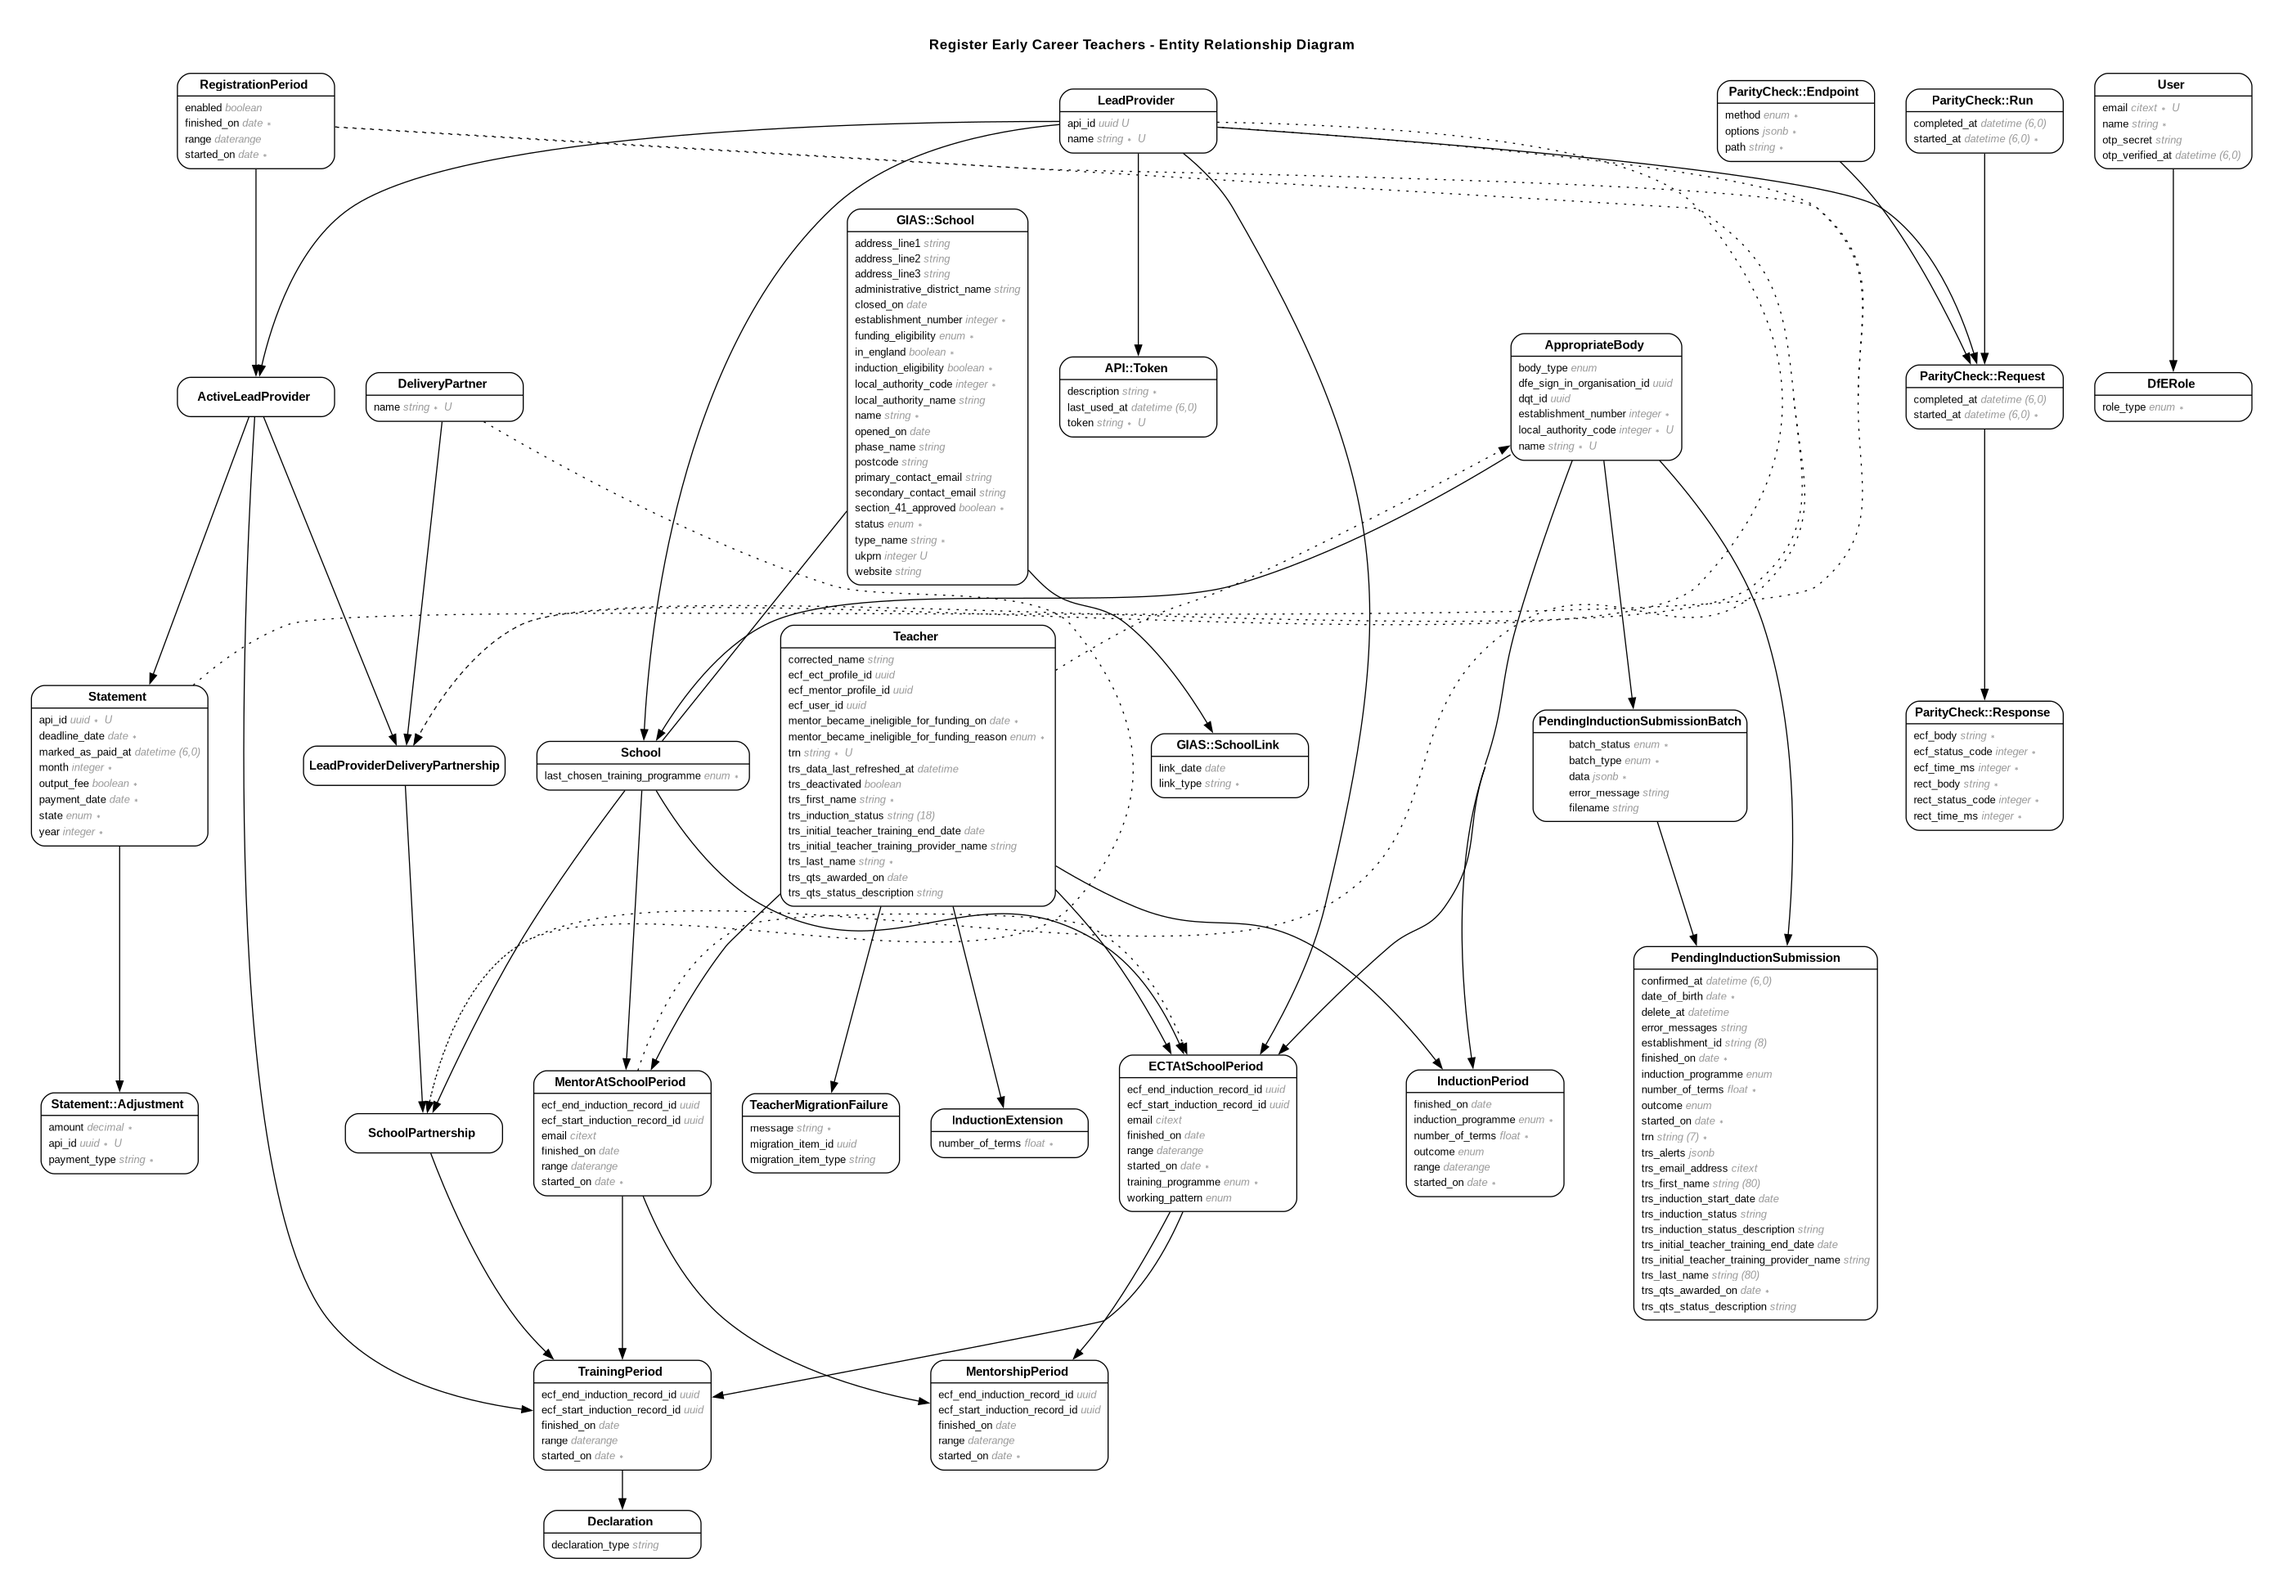
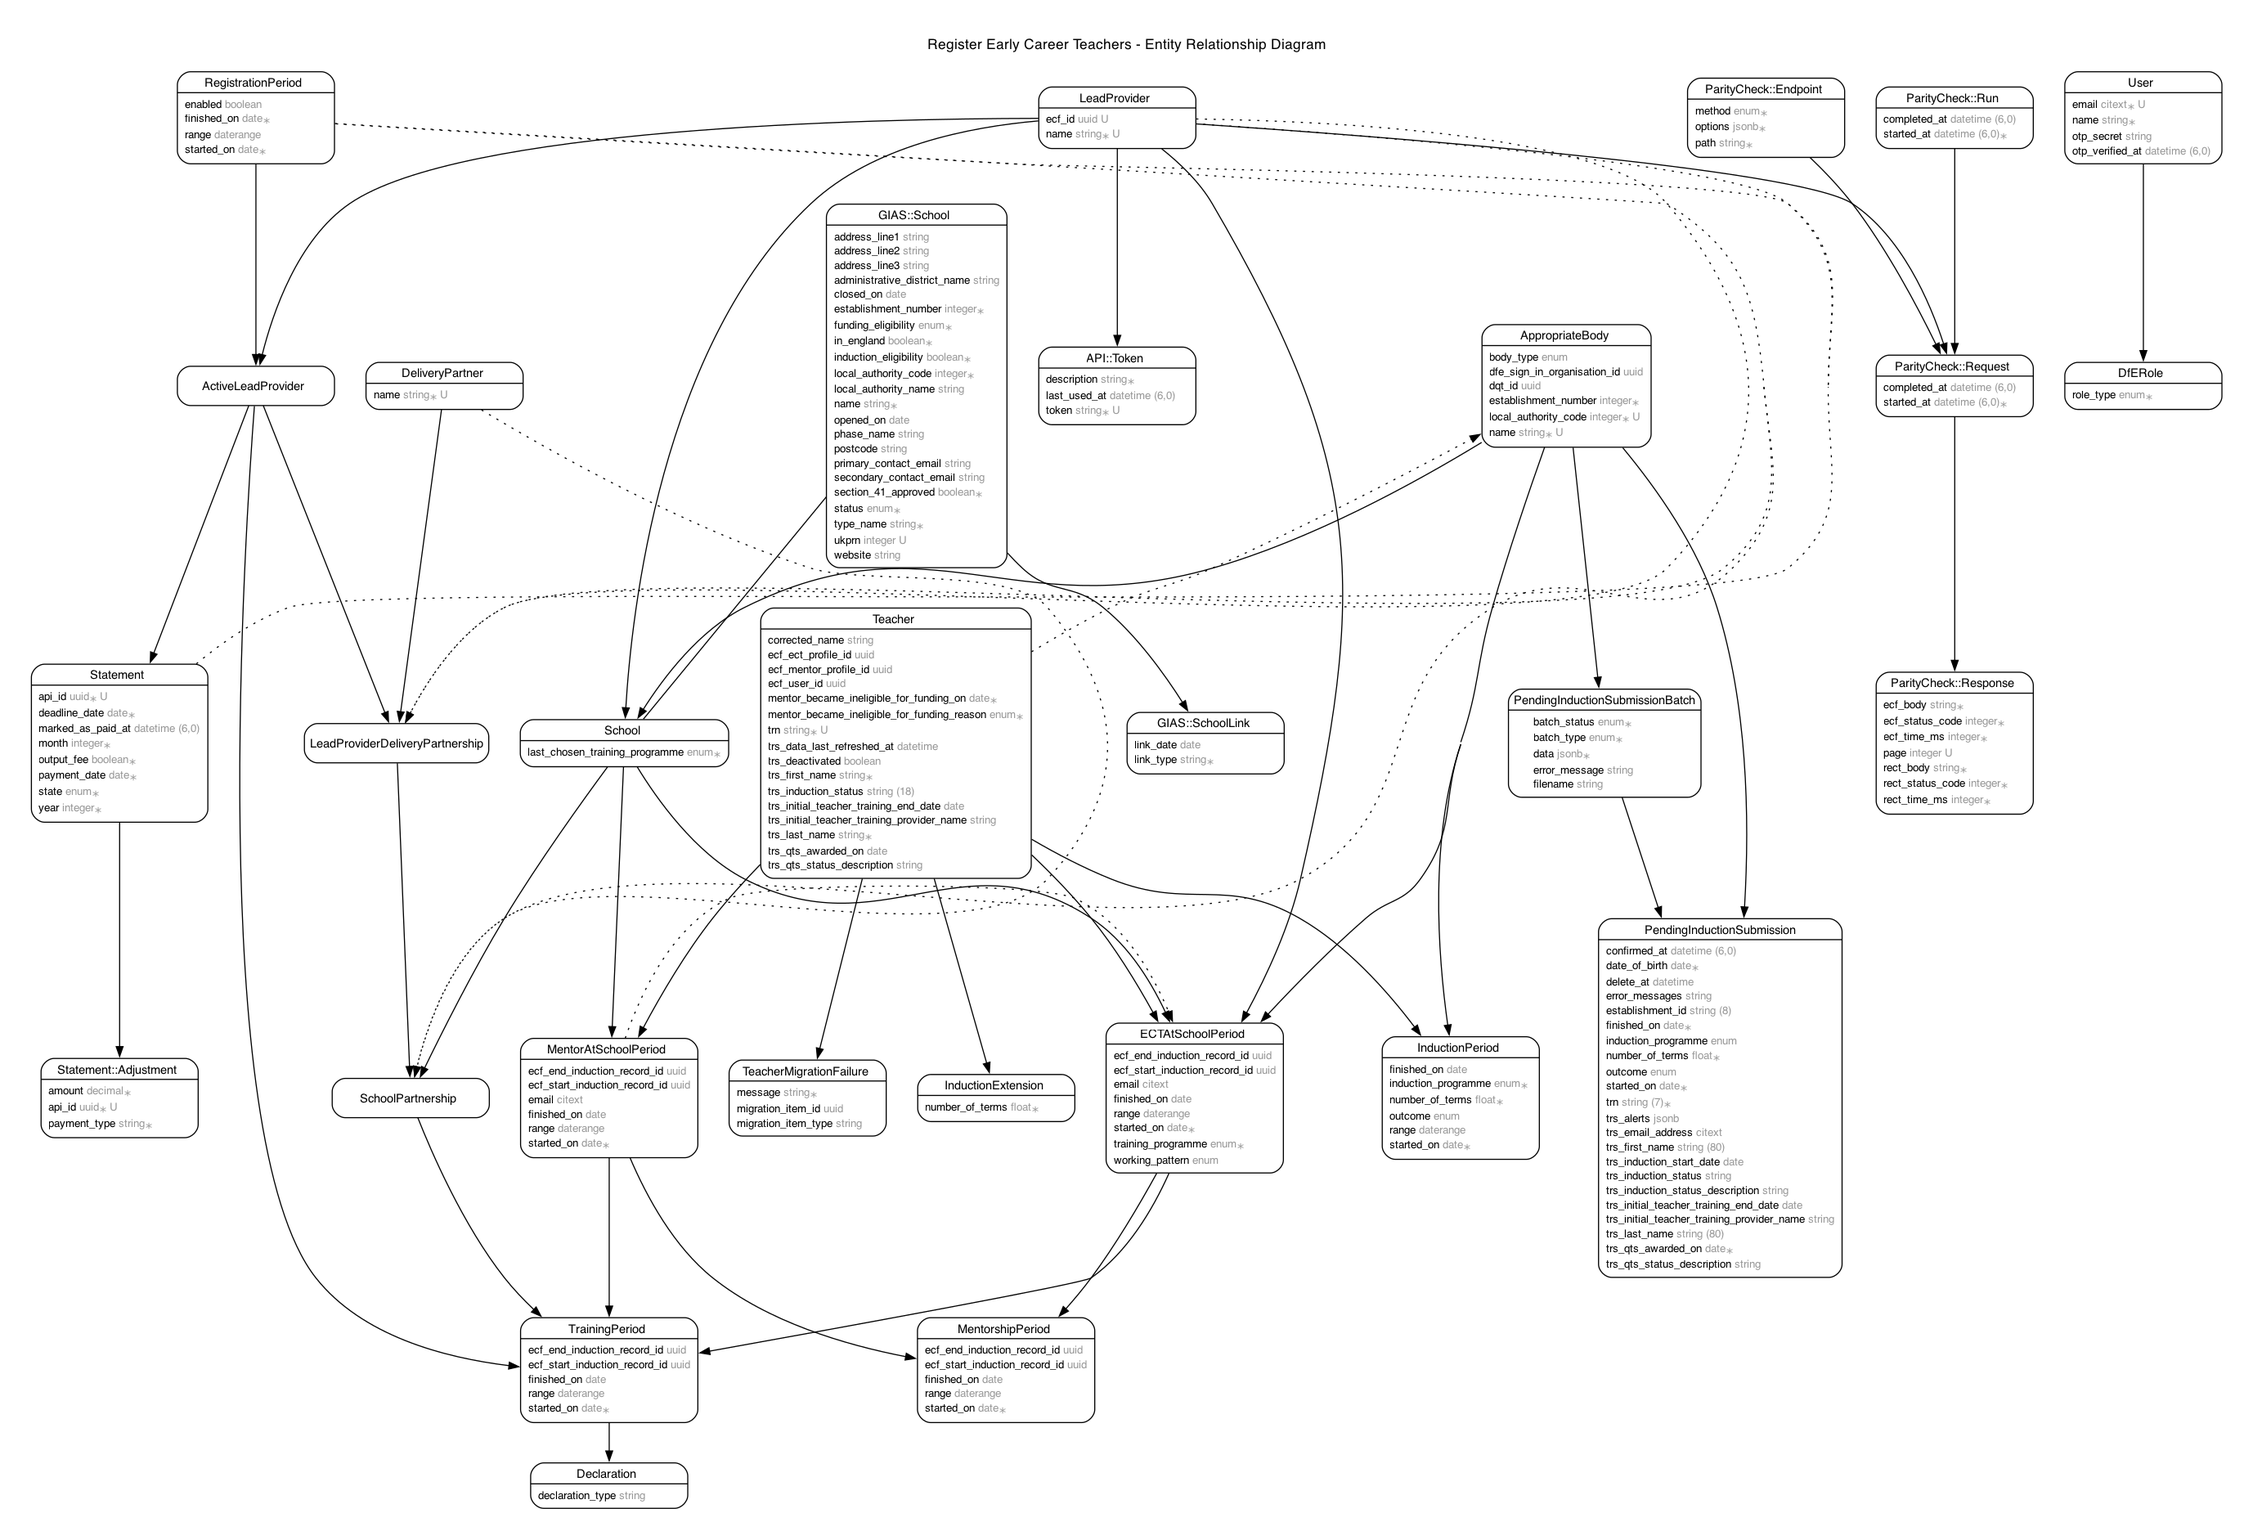
Add `page` to `ParityCheck::Response` model
We need to be able to store the page for responses that are paginated.

The page should be unique per request.

diff --git a/spec/models/parity_check/response_spec.rb b/spec/models/parity_check/response_spec.rb
@@ -6,11 +6,15 @@ describe ParityCheck::Response do
   end
 
   describe "validations" do
+    subject { FactoryBot.build(:parity_check_response) }
+
     it { is_expected.to validate_presence_of(:request) }
     it { is_expected.to validate_inclusion_of(:ecf_status_code).in_range(100..599) }
     it { is_expected.to validate_inclusion_of(:rect_status_code).in_range(100..599) }
     it { is_expected.to validate_numericality_of(:ecf_time_ms).is_greater_than(0) }
     it { is_expected.to validate_numericality_of(:rect_time_ms).is_greater_than(0) }
+    it { is_expected.to validate_numericality_of(:page).is_greater_than(0).only_integer.allow_nil }
+    it { is_expected.to validate_uniqueness_of(:page).scoped_to(:request_id) }
 
     context "when the response comparison is equal" do
       subject { described_class.new(ecf_status_code: 200, rect_status_code: 200) }

diff --git a/db/schema.rb b/db/schema.rb
@@ -390,6 +390,8 @@ ActiveRecord::Schema[8.0].define(version: 2025_06_17_185849) do
     t.integer "rect_time_ms", null: false
     t.datetime "created_at", null: false
     t.datetime "updated_at", null: false
+    t.integer "page"
+    t.index ["request_id", "page"], name: "index_parity_check_responses_on_request_id_and_page", unique: true
     t.index ["request_id"], name: "index_parity_check_responses_on_request_id"
   end
 

diff --git a/app/models/parity_check/response.rb b/app/models/parity_check/response.rb
@@ -11,6 +11,7 @@ module ParityCheck
     validates :rect_body, presence: true, if: :different?
     validates :ecf_time_ms, numericality: { greater_than: 0 }
     validates :rect_time_ms, numericality: { greater_than: 0 }
+    validates :page, numericality: { only_integer: true, greater_than: 0 }, allow_nil: true, uniqueness: { scope: :request_id }
 
   private
 

diff --git a/db/migrate/20250617100009_add_page_to_parity_check_responses.rb b/db/migrate/20250617100009_add_page_to_parity_check_responses.rb
@@ -1,0 +1,6 @@
+class AddPageToParityCheckResponses < ActiveRecord::Migration[8.0]
+  def change
+    add_column :parity_check_responses, :page, :integer, null: true
+    add_index :parity_check_responses, %i[request_id page], unique: true
+  end
+end
